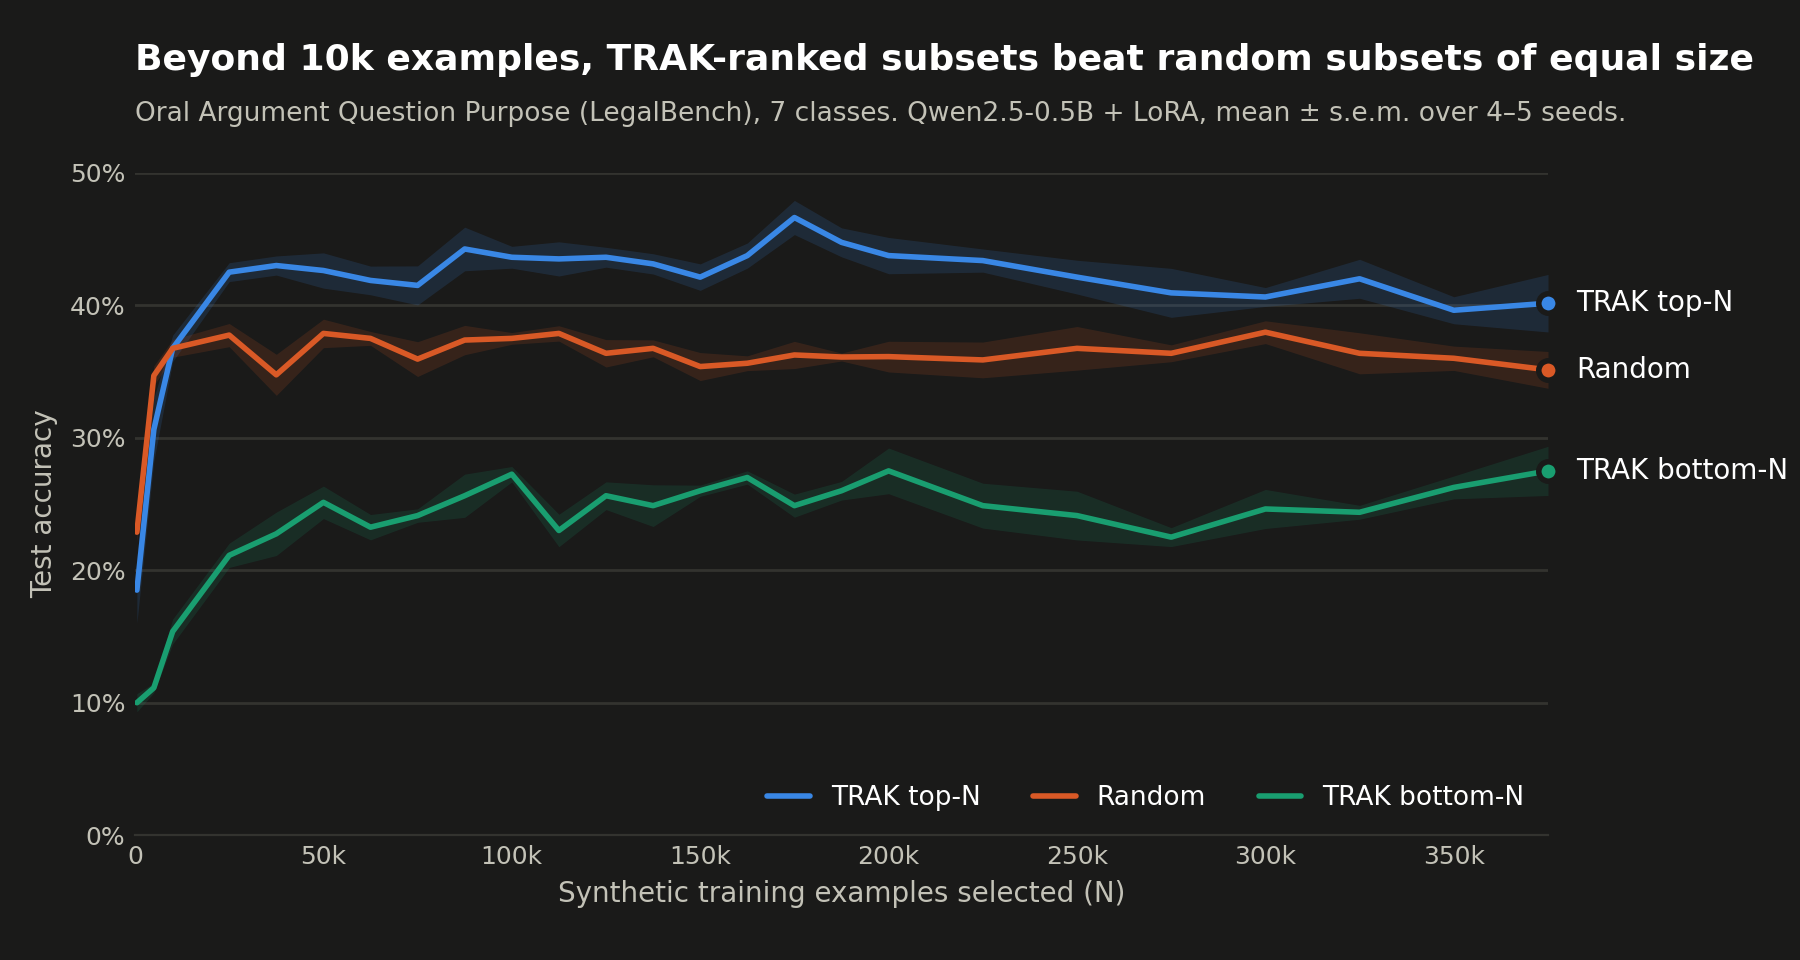
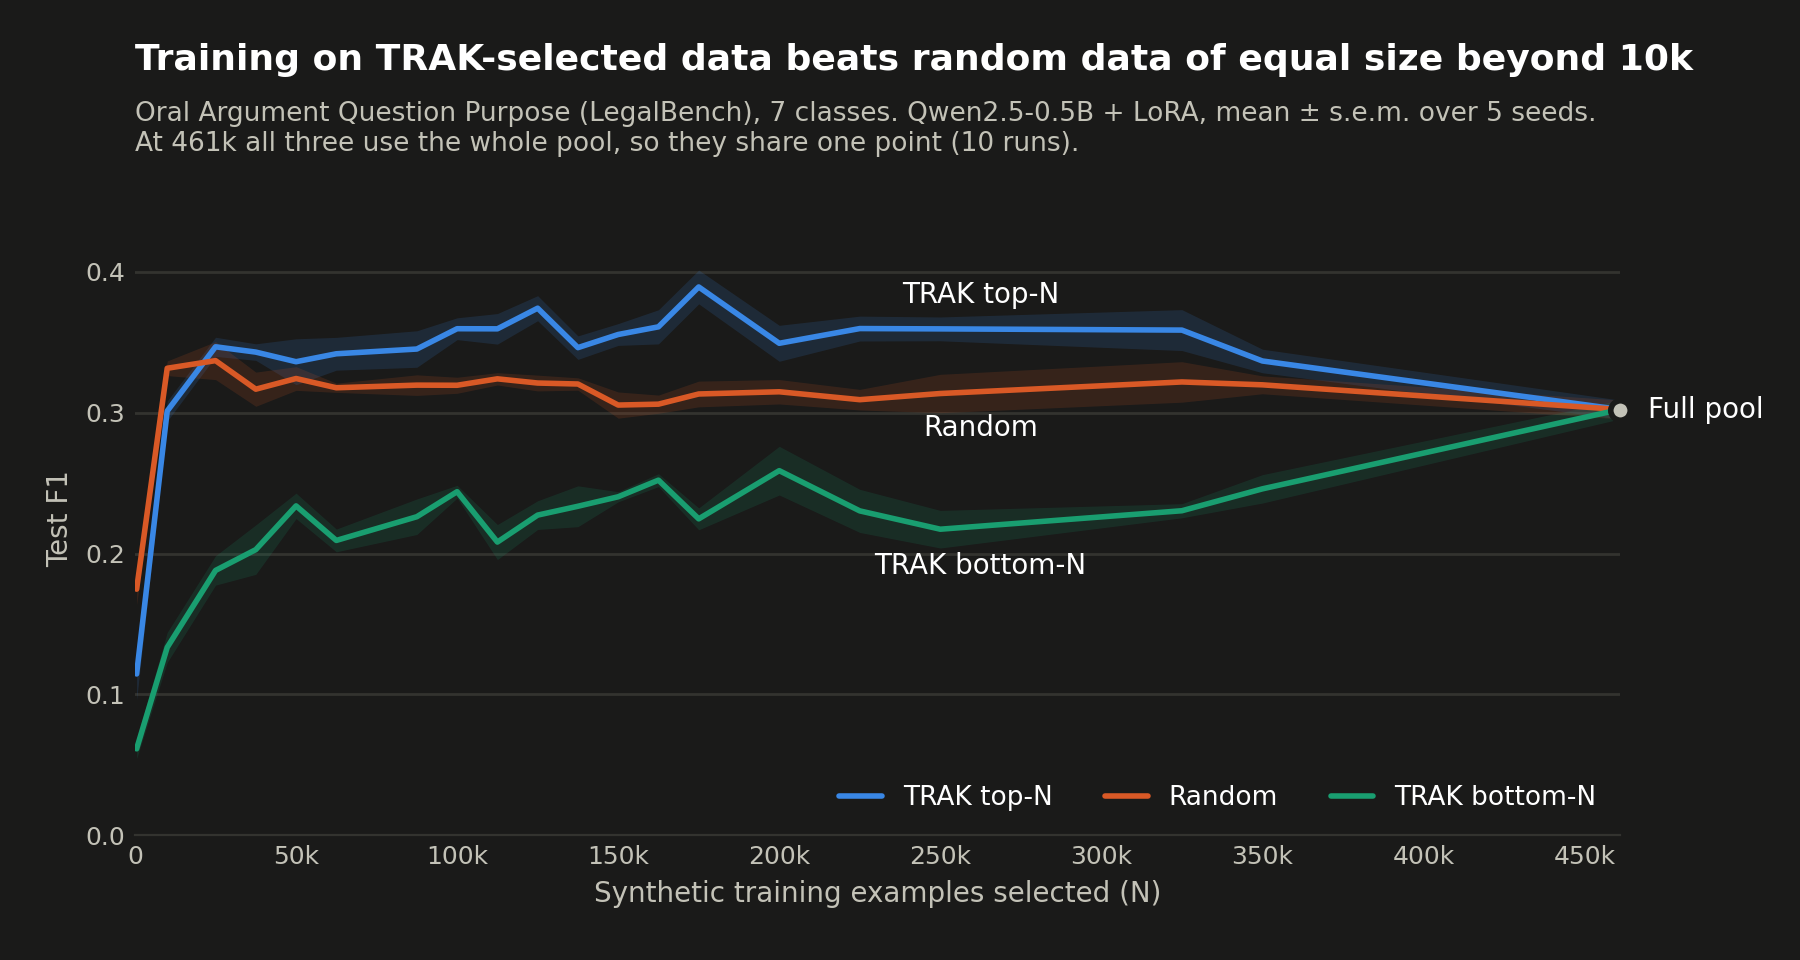
Show F1 over the full pool in the README figure and add a usage section

diff --git a/README.md b/README.md
@@ -21,14 +21,19 @@ lowest-scored examples, and tested on real data.
 
 <picture>
   <source media="(prefers-color-scheme: dark)" srcset="docs/assets/oaqp_data_scaling_dark.png">
-  <img src="docs/assets/oaqp_data_scaling_light.png" alt="Test macro-F1 against training-set size for the highest-scored, random and lowest-scored subsets. From 25k examples up, the highest-scored subsets reach 0.33 to 0.39, random ones 0.31 to 0.34 and the lowest-scored ones 0.19 to 0.26.">
+  <img src="docs/assets/oaqp_data_scaling_light.png" alt="Test F1 against training-set size for the highest-scored, random and lowest-scored subsets. From 25k examples up, the highest-scored subsets reach 0.33 to 0.39, random ones 0.31 to 0.34 and the lowest-scored ones 0.19 to 0.26. All three meet at 0.30 when the whole pool of 461k examples is used.">
 </picture>
 
 With more than 10,000 training examples, the highest-scored examples give a
-better model than the same number of random ones, by 3.4 points of macro-F1
-on average and up to 7.6. The lowest-scored examples are 5 to 15 points worse
+better model than the same number of random ones, by 3.6 points of F1 on
+average and up to 7.6. The lowest-scored examples are 5 to 15 points worse
 than random, which shows the scores do separate good data from bad. With
 10,000 examples or fewer, random selection does better.
+
+At the right edge all three use the whole pool of 461,008 examples, so they
+are the same training set and meet at one point (F1 0.30). The best selected
+subset, the 175,000 highest-scored examples, reaches 0.39: choosing the data
+beats using all of it.
 
 This run used Qwen2.5-0.5B with scores from the original TRAK code path, and
 will be replaced by a Qwen 3.5 run scored with FAST-TRAK. The synthetic pool
